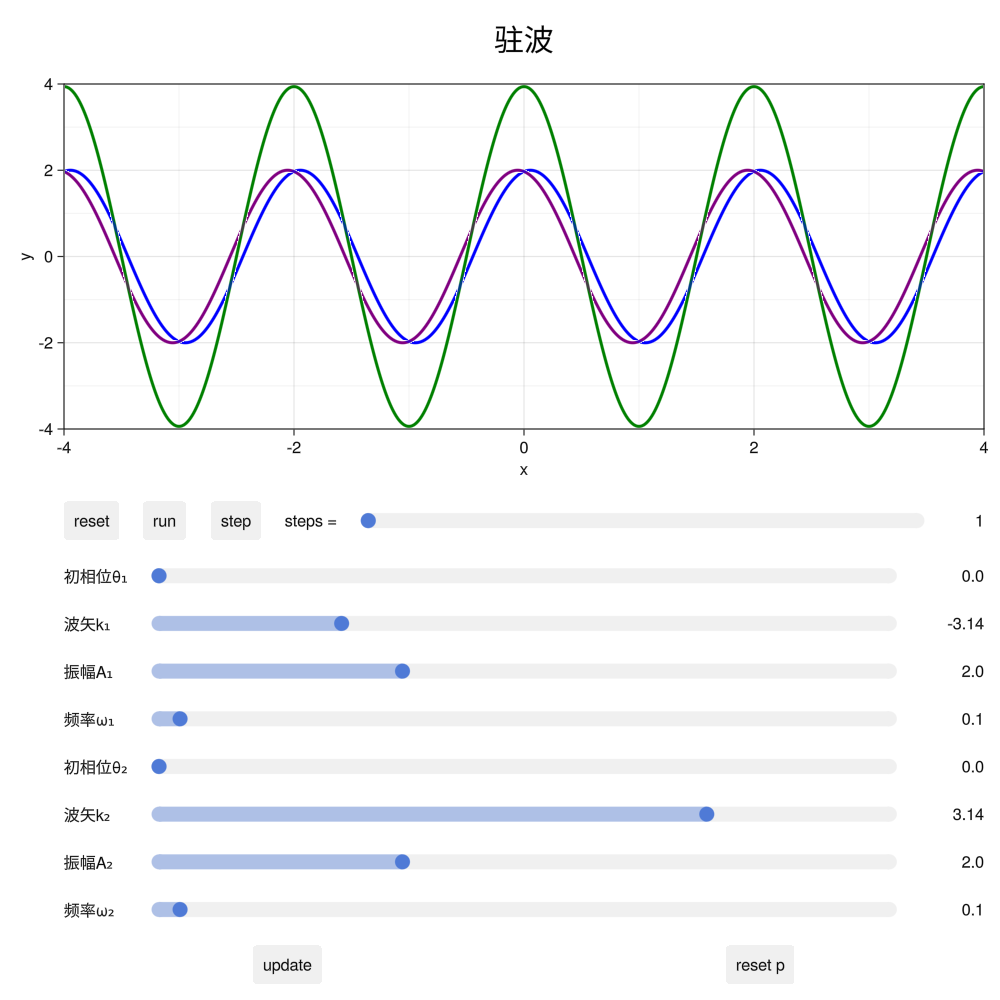
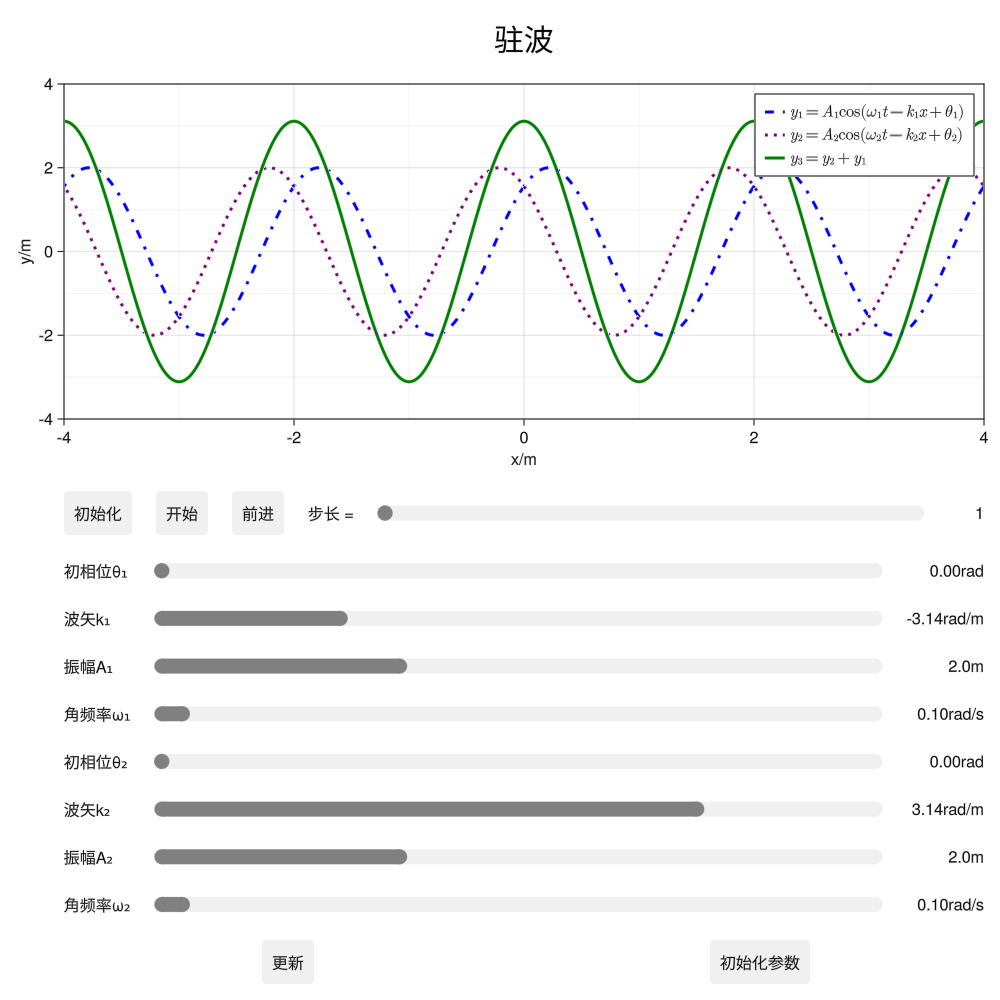
change to Chinese

diff --git a/README.md b/README.md
@@ -15,4 +15,5 @@ pkg> add https://github.com/wwangnju/PhysicsEucation.jl
 ## 例子
 在examples目录中，实现了光栅夫琅和费衍射、圆孔夫琅和费衍射、简谐振动、受迫振动、牛顿环、双缝干涉、驻波以及正多边形夫琅和费衍射的可交互式动态模拟。
 ![standing](./examples/驻波.png)
+每次改变参数后，点击“更新”按钮。“开始”按钮点击后出现动画演示，再次点击会暂停。“初始化”按钮将轨迹初始化到更新参数后的位置。“前进”按钮点击可以实现暂停后动画前进一步，“步长”表示每次前进的轨迹长度。
 ![niu](./examples/牛顿环.png)
